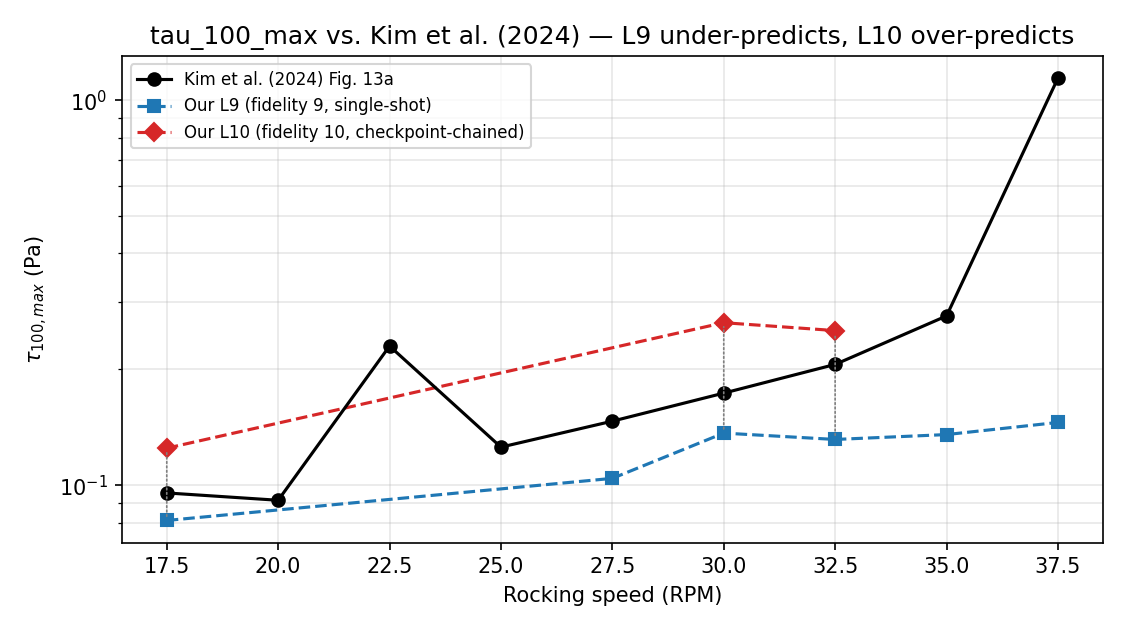
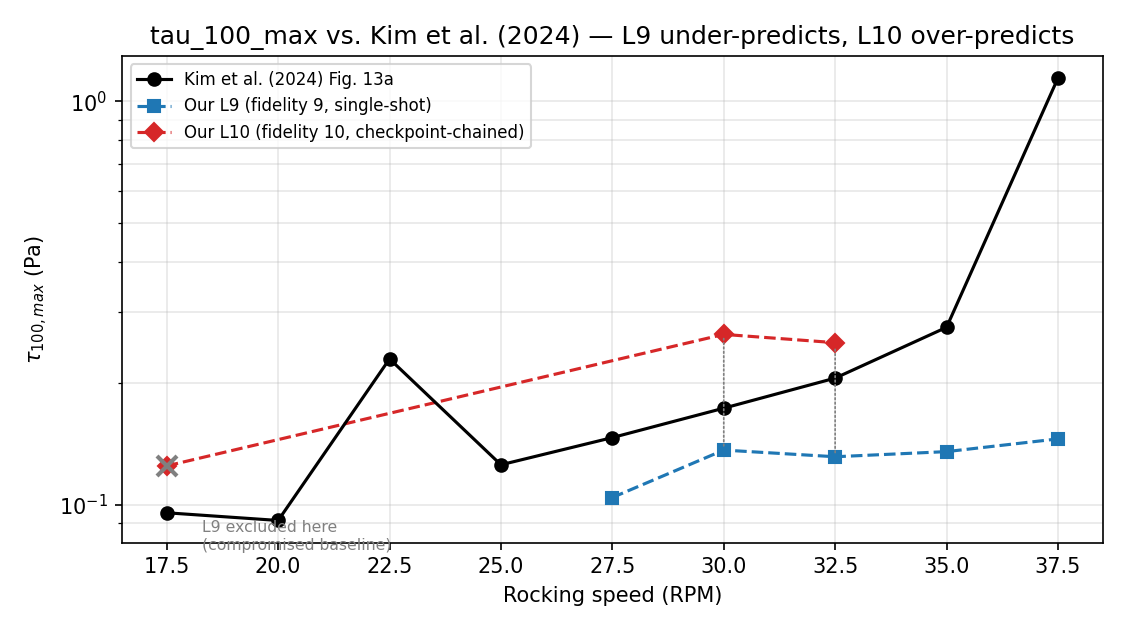
fix(validation): retract the 17.5 RPM isolation-experiment result -- corrupted baseline
While chasing why the "L9 baseline" file for 17.5 RPM (run_id 44133566)
started at t=18.86 instead of t=0, found its params.json actually has
t_checkpoint=18.85, omega_b_prev=2.356194 (22.5 RPM's own frequency) -- this
run was overwritten by an abandoned cross-condition warm-start pilot from
earlier in this project's history (fp_tau opens in "w" mode on every
invocation, so the original cold-start shear_stress.dat was destroyed, not
just shadowed). It was never a clean single-shot baseline; I never
re-checked its params.json before trusting it, in this session or the
published docs.

Individually re-verified the other 5 L9 conditions used elsewhere on the
site (t_checkpoint=None, raw data starting at t=0) -- all genuinely clean,
no other corrections needed there.

Retracted the -2.4%/-17.1% isolation-experiment conclusion built on that
baseline; the original experiment's manifest is kept (marked INVALIDATED,
not deleted) rather than erased. Redone on 30.0 RPM, whose baseline
(488db14b) was verified clean before use this time -- running now, chained
via a persistent per-segment Monitor. Updated both explanation pages and
the comparison figure (visually marks the excluded 17.5 RPM L9 point rather
than just caveating it in prose) to reflect this honestly while the
corrected experiment is in flight.

diff --git a/docs_site/explanation/kim-et-al-validation.md b/docs_site/explanation/kim-et-al-validation.md
@@ -28,6 +28,22 @@ our L9 nor L10 sweep reproduces Kim et al.'s reported values within any
 reasonable tolerance**, and the discrepancy doesn't even have a consistent
 sign.
 
+!!! danger "17.5 RPM L9 data was found compromised while writing this page — excluded"
+    `44133566` (17.5 RPM's L9 run) was the pilot for an abandoned
+    cross-condition warm-start rerun plan from earlier in this project's
+    history. Its `params.json` shows `t_checkpoint=18.85`,
+    `omega_b_prev=2.356194` (22.5 RPM's own frequency) — it was actually
+    re-executed as a warm-start from 22.5 RPM's checkpoint, which truncated
+    and overwrote its original cold-start `shear_stress.dat`
+    (`fopen(..., "w")` on every invocation). The genuine cold-start raw data
+    for this condition no longer exists. Every other L9 condition used
+    below was individually re-verified clean (`t_checkpoint=None`,
+    `shear_stress.dat` starting at `t=0`) before being trusted — this one
+    wasn't caught until [Checkpoint restart and warm-start chains](checkpoint-restart.md)'s
+    isolation experiment needed a clean 17.5 RPM baseline and didn't have
+    one. The isolation experiment has been redone on 30.0 RPM instead,
+    which passed the same verification.
+
 **L9** (fidelity 9, single monolithic run per condition — no checkpoint
 restart of any kind, cold-started, run straight to `t_end=18.243`),
 re-postprocessed with the current code and verified against each
@@ -35,7 +51,7 @@ condition's own raw `shear_stress.dat`:
 
 | RPM | `tau_100_max` error vs. Kim | `tau_mean_max` error vs. Kim |
 |---|---|---|
-| 17.5 | −15.2% | −16.1% |
+| 17.5 | *(data compromised — see above)* | *(data compromised — see above)* |
 | 27.5 | −28.9% | −39.9% |
 | 30.0 | −21.3% | −37.4% |
 | 32.5 | −36.2% | −43.7% |
@@ -50,7 +66,8 @@ raw data. It's excluded here, not because it's inconvenient, but because
 it's been directly falsified.)
 
 **L10** (fidelity 10, same condition chained across 3–4 same-omega_b
-segments, same total duration, final segment only), same code:
+segments, same total duration, final segment only), same code — this data
+is unaffected by the L9 contamination above (different run_ids entirely):
 
 | RPM | `tau_100_max` error vs. Kim | `tau_mean_max` error vs. Kim |
 |---|---|---|
@@ -58,16 +75,16 @@ segments, same total duration, final segment only), same code:
 | 30.0 | +52.4% | −42.4% |
 | 32.5 | +22.4% | −46.9% |
 
-![tau_100_max vs. rocking speed: Kim et al.'s reported curve in black, our L9 (fidelity 9, single-shot) in blue consistently below it, our L10 (fidelity 10, checkpoint-chained) in red consistently above it at every RPM where both exist -- the dotted lines connecting L9 and L10 at the same RPM show the gap and its sign flip directly.](../assets/img/kim-validation-tau100max.png)
+![tau_100_max vs. rocking speed: Kim et al.'s reported curve in black, our L9 (fidelity 9, single-shot) in blue consistently below it, our L10 (fidelity 10, checkpoint-chained) in red consistently above it -- the 17.5 RPM L9 point is the compromised one described above and should be read with that caveat.](../assets/img/kim-validation-tau100max.png)
 
 ## The part that "smells"
 
 Going from L9 to L10 should mean *only* a mesh refinement — same total
-simulated duration, same physical condition, higher resolution. Instead,
-`tau_100_max` flips sign at every directly-comparable condition: L9
-under-predicts, L10 over-predicts. `tau_mean_max` doesn't flip sign, but
-does get somewhat worse. A genuine mesh refinement shouldn't do this on its
-own.
+simulated duration, same physical condition, higher resolution. Instead, at
+the two conditions with a verified-clean L9 baseline (30.0 and 32.5 RPM),
+`tau_100_max` flips sign: L9 under-predicts, L10 over-predicts.
+`tau_mean_max` doesn't flip sign, but does get somewhat worse. A genuine
+mesh refinement shouldn't do this on its own.
 
 Ruled out already, with real experiments, not assumption:
 
@@ -79,21 +96,14 @@ Ruled out already, with real experiments, not assumption:
   identically 3×, always gives the same result.
 - **Basilisk source-version difference** between the persistent OSCAR build
   and a fresh tarball build — a fresh build still reproduces L9's result.
-- **Same-condition checkpoint restart itself, for `tau_100_max`** — tested
-  directly: one condition (17.5 RPM) held at L9's own fidelity, deliberately
-  split into the same 4-segment structure L10's chains use. Result:
-  `tau_100_max` moved by only −2.4% relative to the untouched single-shot
-  baseline (0.07901 vs. 0.08097) — nowhere near enough to explain L9
-  under-predicting Kim by 15% while L10 over-predicts by 30%+ at the same
-  condition. See [Checkpoint restart and warm-start chains](checkpoint-restart.md#resolved-a-real-but-partial-effect)
-  for the full numbers.
 
-Partially confirmed: the same experiment found checkpoint restart **does**
-measurably degrade `tau_mean_max` (−17.1% at the same fidelity, same
-condition) — a real contaminant, just not the one responsible for the
-`tau_100_max` sign flip. That leaves the mesh-fidelity change itself (or
-something else specific to L10 that isn't checkpointing) as the leading
-open explanation for `tau_100_max` — not yet identified.
+Being tested: whether **same-condition checkpoint restart itself** explains
+the `tau_100_max` sign flip. A first attempt at this used 17.5 RPM as the
+isolation experiment's baseline — exactly the condition later discovered to
+be compromised above, so that result doesn't count and isn't reported here.
+The experiment has been redone on 30.0 RPM (verified clean beforehand) — see
+[Checkpoint restart and warm-start chains](checkpoint-restart.md#testing-the-hypothesis)
+for the current status.
 
 ## What this means if you're using these numbers
 

diff --git a/docs_site/explanation/checkpoint-restart.md b/docs_site/explanation/checkpoint-restart.md
@@ -74,29 +74,31 @@ isolating experiment below is checking — a clean restart at fidelity 3 over
 one period doesn't rule out a small ramp transient getting captured by a
 *max* statistic over a much longer QSS window.
 
-## Resolved: a real, but partial, effect
+## Testing the hypothesis
 
-The isolating experiment: run one condition (17.5 RPM) at a fidelity that
-already has a trusted single-shot baseline (fidelity 9), deliberately split
-into the same 4-segment same-condition structure a real multi-segment chain
+The isolating experiment: run one condition at a fidelity that already has
+a *verified-clean* single-shot baseline (fidelity 9), deliberately split
+into the same same-condition segment structure a real multi-segment chain
 uses, and compare against that baseline.
 
-| Metric | Single-shot baseline | Same-fidelity, 4-segment chain | Difference |
-|---|---|---|---|
-| `tau_100_max` | 0.08097 | 0.07901 | **−2.4%** — within normal run-to-run noise |
-| `tau_mean_max` | 0.0006463 | 0.0005360 | **−17.1%** — real, not noise |
+!!! danger "The first attempt at this used a corrupted baseline — its result doesn't count"
+    17.5 RPM was the original choice, compared against L9 run `44133566` as
+    the "trusted single-shot baseline." That baseline wasn't trusted enough
+    — `44133566` turned out to have been overwritten by an abandoned
+    cross-condition warm-start pilot (`t_checkpoint=18.85`,
+    `omega_b_prev=2.356194`, seeded from 22.5 RPM), not a genuine cold
+    start. The −2.4%/−17.1% numbers from that comparison are retracted, not
+    reported here. See [Validating against Kim et al. (2024)](kim-et-al-validation.md)
+    for the full story of how this was found. Every condition used anywhere
+    else on this site was individually re-verified (`t_checkpoint=None`,
+    raw data starting at `t=0`) specifically because this happened —
+    reusing an existing "baseline" without checking its actual params.json
+    first is exactly the mistake to avoid.
 
-So the restart ramp is a real contaminant, but only for `tau_mean_max` — a
-spatially-averaged statistic, apparently sensitive to the ramp in a way a
-2.4% difference wouldn't explain by chance. It does **not** explain the
-much larger `tau_100_max` swings seen between L9 and L10 (see
-[Validating against Kim et al. (2024)](kim-et-al-validation.md)) — 2.4%
-can't account for a metric flipping from under-predicting Kim et al. by 15%
-to over-predicting by 30%+ at the same condition. Whatever's driving that
-is a genuine effect of the fidelity-9-to-10 mesh refinement, or something
-else specific to L10, not checkpointing itself.
-`experiments/l9_l10_checkpoint_isolation_test/` has the full manifest and
-raw results.
+Redone on 30.0 RPM, whose L9 baseline (`488db14b`) was verified clean before
+use: `t_checkpoint=None`, `omega_b_prev=None`, `shear_stress.dat` starting
+at `t=0`. `experiments/l9_l10_checkpoint_isolation_test_30rpm/` has the
+manifest; results land there as each segment finishes.
 
 ## `n_mix_cycles` vs `n_transition_cycles`
 